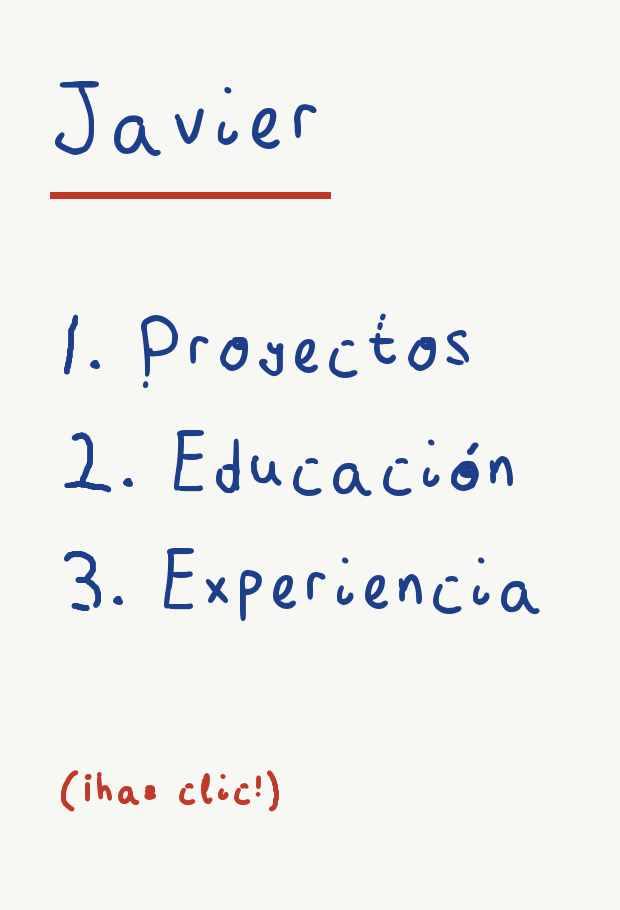
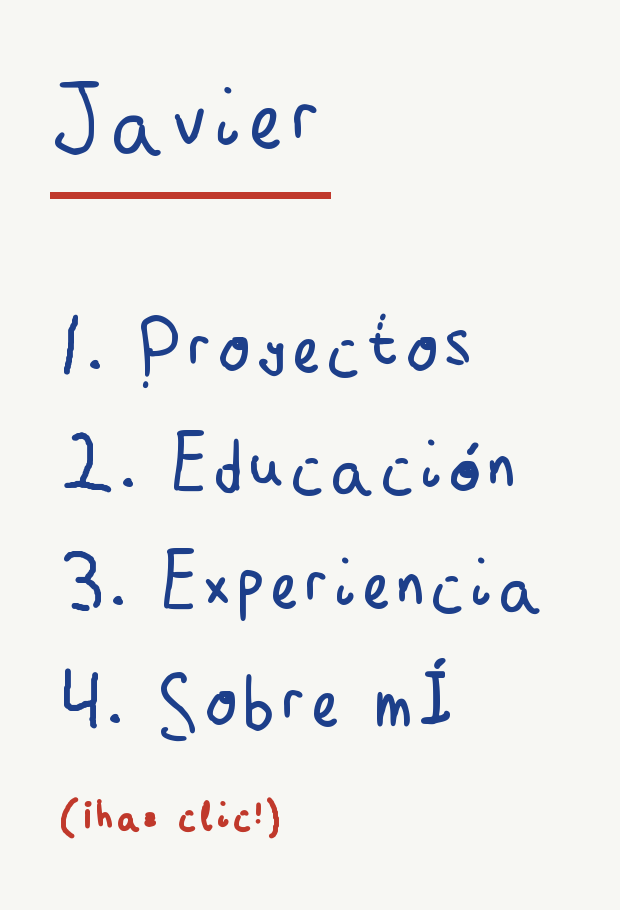
Balón de San Roque, fotos en el espejo, Sobre mí más cerca, línea 4 de la pizarra

diff --git a/p/main.js b/p/main.js
@@ -31,6 +31,9 @@ const FLEXO_POLO = (hash.get('flexo') ?? '0.18,1.075').split(',').map(Number);  
 const FLEXO_PIE = (hash.get('pie') ?? '0.02,-0.075').split(',').map(Number);   // desplazamiento (x, z) del pie respecto al palo
 const MESA_DESPLAZ = 0.03;   // m que se corre la mesa (y lo que lleva) hacia la puerta, para dejar sitio al palo del flexo
 const ESPEJO_INCL = +(hash.get('lean') ?? 0.14);   // rad que se separa de la pared por abajo (0,14 ≈ 8°; antes 0,22 ≈ 12,6°; #lean=0.22 para compararlo)
+const SOBREMI = (hash.get('sm') ?? '0.7,1.45,1.25,52').split(',').map(Number);   // vista de "Sobre mí": distancia al espejo, altura de los ojos, altura a la que mira, campo de visión (#sm=… para probar)
+const BALON_POS = (hash.get('balon') ?? '2.36,1.99').split(',').map(Number);   // x, z del balón sobre la cómoda (#balon=x,z)
+const BALON_YAW = +(hash.get('byaw') ?? -Math.PI / 4), BALON_GIRO = Math.PI / 2;   // giro del balón sobre la cómoda (rad): -45° deja el escudo mirando en diagonal hacia la puerta (desde la cómoda, la puerta queda a 45°)
 const PARED_X = 2.60;   // pared de la estantería y la cómoda (ancho del cuarto)
 const MARCO_ESPEJO = '#dccdb6';   // madera clara del marco del espejo (medida del vídeo de referencia, f_016)
 const lineasPizarra = {};   // línea del menú -> { malla resaltada, opacidad actual y objetivo }
@@ -38,7 +41,7 @@ const PIZARRA_GIRO = +(hash.get('piz') ?? 0.5);   // rad extra sobre el giro hor
 const PIZARRA_INCL = +(hash.get('inc') ?? 0.1);   // rad que cae hacia atrás la parte de arriba (0,1 rad ≈ 6°)
 const SECTIONS = T.secciones;
 // zonas de la pizarra (altura relativa en la cara blanca, de abajo arriba) — igual que blender/tex.py BOARD_ITEMS
-const BOARD_ITEMS = [['proyectos', 0.60], ['educacion', 0.47], ['experiencia', 0.34]];
+const BOARD_ITEMS = [['proyectos', 0.60], ['educacion', 0.47], ['experiencia', 0.34], ['sobremi', 0.21]];
 
 // ---------------------------------------------------------------- renderer + postprocesado (resplandor, contorno, etalonaje lofi)
 // sin MSAA ni profundidad en el lienzo: la escena se pinta en los búferes del compositor y al lienzo solo llega la pasada final
@@ -262,17 +265,54 @@ async function loadRoom() {
     // se adelanta el espejo entero lo justo para que el listón de arriba la toque por detrás sin atravesarla
     ref.updateMatrixWorld(true);
     { const top = ref.children.find(b => b.name === 'espejo_marco'), bb = new THREE.Box3().setFromObject(top); ref.position.x += (PARED_X - 0.002) - bb.max.x; ref.updateMatrixWorld(true); }
+    // fotos de Javier pegadas al cristal (copias en papel con cinta): como no hay personaje, que el espejo tenga algo de él.
+    // x, y respecto al centro del espejo (m) y giro (º); quedan en los lados para dejar libre el centro del reflejo
+    {
+      objects.espejoFotos = []; objects.matFotos = [];
+      const sitios = [[-0.085, 0.565, 5], [0.085, 0.405, -6], [-0.07, 0.2, -3]];
+      await Promise.all(sitios.map(async ([x, y, giro], i) => {
+        try {
+          const t = await cargarTextura(base + `foto_espejo_${i + 1}.webp`), w = 0.14, h = w * t.image.height / t.image.width;
+          const mat = new THREE.MeshBasicMaterial({ map: t, transparent: true, depthWrite: false }), f = new THREE.Mesh(new THREE.PlaneGeometry(w, h), mat);
+          f.position.set(x, y, 0.0045 + i * 0.0004); f.rotation.z = THREE.MathUtils.degToRad(giro); f.name = 'espejo_foto'; f.renderOrder = 2;
+          ref.add(f); objects.espejoFotos.push(f); objects.matFotos.push(mat);
+        } catch (e) { console.warn('foto del espejo', i + 1, e); }
+      }));
+    }
     const old = room.getObjectByName('espejo001'); if (old) { old.visible = false; old.raycast = () => {}; objects.espejo = objects.espejo.filter(o => o !== old); }    // el marco horneado ya no se ve
     // la base adelantada no puede atravesar el suelo (el marco de abajo, 3 cm, se apoya en él): subir lo justo
     ref.updateMatrixWorld(); const baseY = new THREE.Vector3(0, -alto / 2 - 0.03, 0).applyMatrix4(ref.matrixWorld).y;
     if (baseY < 0.002) { ref.position.y += 0.002 - baseY; }
     objects.espejoCentro = ref.position.clone();
-    { const c = ref.position; VIEWS.sobremi = V([c.x - 1.25, 1.5, c.z], [c.x + 0.02, 0.85, c.z], 58); }   // de frente al espejo, a la altura de los ojos
+    { const c = ref.position, [d, ey, ly, fov] = SOBREMI; VIEWS.sobremi = V([c.x - d, ey, c.z], [c.x + 0.02, ly, c.z], fov); }   // de frente al espejo, a la altura de los ojos
     scene.add(ref); m.visible = false; objects.espejo.push(ref); espejos.push(ref);
     // los listones salen del espejo y cuelgan directamente de la escena: el contorno (al pasar el ratón) oculta todo lo no seleccionado, y si fueran
     // hijos del cristal este se ocultaría y se llevaría los listones con él
-    ref.updateMatrixWorld(true); for (const b of ref.children.filter(c => c.name === 'espejo_marco')) scene.attach(b);
+    ref.updateMatrixWorld(true); for (const b of ref.children.filter(c => c.name === 'espejo_marco' || c.name === 'espejo_foto')) scene.attach(b);
   }
+  // balón de San Roque (balón 2026 del club) sobre la cómoda, con el escudo hacia la puerta: modelo de revolución a tamaño real (balón del 5: 29 x 19 cm)
+  try {
+    const tex = await cargarTextura(base + 'balon.webp'), grano = await cargarTextura(base + 'balon_grano.webp', { flipY: false });
+    const L = 0.29, R = 0.095, N = 64, pts = [];
+    for (let i = 0; i <= N; i++) { const t = -1 + 2 * i / N; pts.push(new THREE.Vector2(Math.max(0.0005, R * Math.pow(Math.max(0, 1 - t * t), 0.62)), t * L / 2)); }   // punta algo más afilada que un elipsoide
+    grano.wrapS = grano.wrapT = THREE.RepeatWrapping; grano.repeat.set(34, 22);
+    const mat = new THREE.MeshStandardMaterial({ map: tex, bumpMap: grano, bumpScale: 0.9, roughness: 0.55, metalness: 0 });
+    const bola = new THREE.Mesh(new THREE.LatheGeometry(pts, 96), mat); bola.name = 'balon';
+    bola.rotation.y = -BALON_GIRO;                                  // el escudo (centro del gajo 0, u = 1/8 de vuelta) queda mirando a +z
+    const grupo = new THREE.Group(); grupo.name = 'balon_grupo'; grupo.add(bola);
+    grupo.rotation.set(0, 0, -Math.PI / 2); const pivote = new THREE.Group(); pivote.add(grupo); pivote.rotation.y = BALON_YAW;   // eje largo en x, algo girado
+    // altura de la cómoda en ese punto (rayo hacia abajo contra el cuarto)
+    scene.updateMatrixWorld(true); const rc = new THREE.Raycaster(new THREE.Vector3(BALON_POS[0], 1.6, BALON_POS[1]), new THREE.Vector3(0, -1, 0));
+    const golpe = rc.intersectObjects(scene.children, true).find(h => h.object.visible && h.object.isMesh && !h.object.name.startsWith('espejo'));
+    const sobre = golpe ? golpe.point.y : 1.04;
+    pivote.position.set(BALON_POS[0], sobre + R, BALON_POS[1]);
+    // sombra de contacto y luz solo para él (el resto del cuarto es de luz horneada)
+    const sombra = new THREE.Mesh(new THREE.PlaneGeometry(0.42, 0.28), new THREE.MeshBasicMaterial({ map: (() => { const c = document.createElement('canvas'); c.width = c.height = 128; const g = c.getContext('2d'), gr = g.createRadialGradient(64, 64, 4, 64, 64, 62); gr.addColorStop(0, 'rgba(20,10,20,0.62)'); gr.addColorStop(1, 'rgba(20,10,20,0)'); g.fillStyle = gr; g.fillRect(0, 0, 128, 128); return new THREE.CanvasTexture(c); })(), transparent: true, depthWrite: false }));
+    sombra.rotation.x = -Math.PI / 2; sombra.rotation.z = BALON_YAW; sombra.position.set(BALON_POS[0], sobre + 0.002, BALON_POS[1]); sombra.raycast = () => {};
+    const hemi = new THREE.HemisphereLight(0xfff1e0, 0x8a6a5a, 1.55), sol = new THREE.DirectionalLight(0xffe2c0, 1.25); sol.position.set(-1.5, 2.2, 3.0); sol.target.position.copy(pivote.position);
+    scene.add(pivote, sombra, hemi, sol, sol.target); pivote.updateMatrixWorld(true);
+    objects.balon = { grupo: pivote, mat, hemi, sol, sombra };
+  } catch (e) { console.warn('sin balón', e); }
   // raycast acelerado (árbol de cajas por malla): pasar el ratón por el cuarto no recorre los 72.000 triángulos
   scene.traverse(o => { if (o.isMesh && o.geometry.index && o.geometry.attributes.position.count > 200) { o.geometry.computeBoundsTree = computeBoundsTree; o.geometry.computeBoundsTree({ indirect: true }); o.raycast = acceleratedRaycast; } });
 }
@@ -293,7 +333,7 @@ function hitTest(ev) {
   if (objects.monitor.includes(o)) return { key: 'proyectos' };
   if (objects.libro.includes(o)) return { key: 'educacion' };
   if (objects.ventana.includes(o)) return { key: 'experiencia' };
-  if (objects.espejo.includes(o)) return { key: 'sobremi' };
+  if (objects.espejo.includes(o) || objects.espejoFotos?.includes(o)) return { key: 'sobremi' };
   if (o === objects.boardFace || o === objects.pizarra) {
     // qué línea de la pizarra: la coordenada v de la textura en el punto tocado
     const v = o === objects.boardFace && hit.uv ? hit.uv.y : -1;
@@ -400,7 +440,7 @@ function showPanel(key) {
     Object.assign(panel.style, { left: '', right: '6vw', top: '50%', transform: 'translateY(-50%)', width: 'min(460px, 40vw)', height: '' });
     poner(key, () => `<div class="card"><h2>${SECTIONS.experiencia}</h2>${EXPERIENCE.map(e => `<h3>${todo(e.what)}</h3><p>${todo(e.when)}</p><p>${todo(e.detail)}</p>`).join('')}</div>`);
   } else if (key === 'sobremi') {
-    Object.assign(panel.style, { left: '5vw', right: '', top: '50%', transform: 'translateY(-50%)', width: 'min(440px, 40vw)', height: '' });
+    Object.assign(panel.style, { left: '', right: '5vw', top: '50%', transform: 'translateY(-50%)', width: 'min(380px, 32vw)', height: '' });
     poner(key, () => `<div class="card"><h2>${ABOUT.name}</h2><p><b>${ABOUT.role}</b></p><p>${todo(ABOUT.bio)}</p>
       <ul>${(ABOUT.gustos || []).map(g => `<li>${g}</li>`).join('')}</ul>
       <h3>${T.contacto}</h3><p>${ABOUT.links.map(l => `<a href="${l.href}" target="_blank" rel="noopener">${l.label}</a>${l.todo ? ' <span class="todo">' + T.pendiente + '</span>' : ''}`).join(' · ')}</p></div>`);
@@ -679,6 +719,8 @@ function frame(now) {
     frame.ultimaHora = now; frame.horaPuesta = horaManual; const r = Horas.actualizar(horaManual ?? undefined);
     if (r.cambio || !frame.reloj) {
       sucio = true;
+      if (objects.balon) { const f = Math.min(1, 0.35 + 0.65 * (r.d + 0.9 * r.a + 0.3 * r.n)); objects.balon.hemi.intensity = 1.55 * f; objects.balon.sol.intensity = 1.25 * f * (1 - 0.7 * r.n); objects.balon.sombra.material.opacity = 0.5 + 0.4 * f; }
+      if (objects.matFotos) { const f = Math.min(1, 1.0 * r.d + 0.9 * r.a + 0.36 * r.n); for (const m of objects.matFotos) m.color.setScalar(f); }
       if (objects.marcoEspejo) { const f = 1.0 * r.d + 0.9 * r.a + 0.36 * r.n, c = new THREE.Color(MARCO_ESPEJO); for (const m of objects.marcoEspejo) m.color.copy(c).multiplyScalar(f * m.userData.k); }
       if (objects.alfombrilla) objects.alfombrilla.material.color.setRGB(0.95 * r.d + 0.85 * r.a + 0.32 * r.n, 0.93 * r.d + 0.72 * r.a + 0.30 * r.n, 0.90 * r.d + 0.68 * r.a + 0.42 * r.n);
     }
